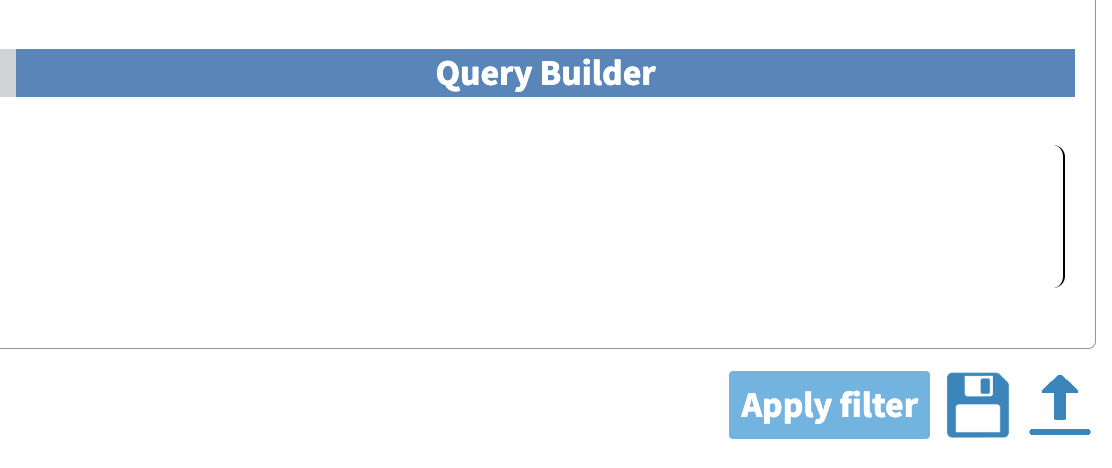
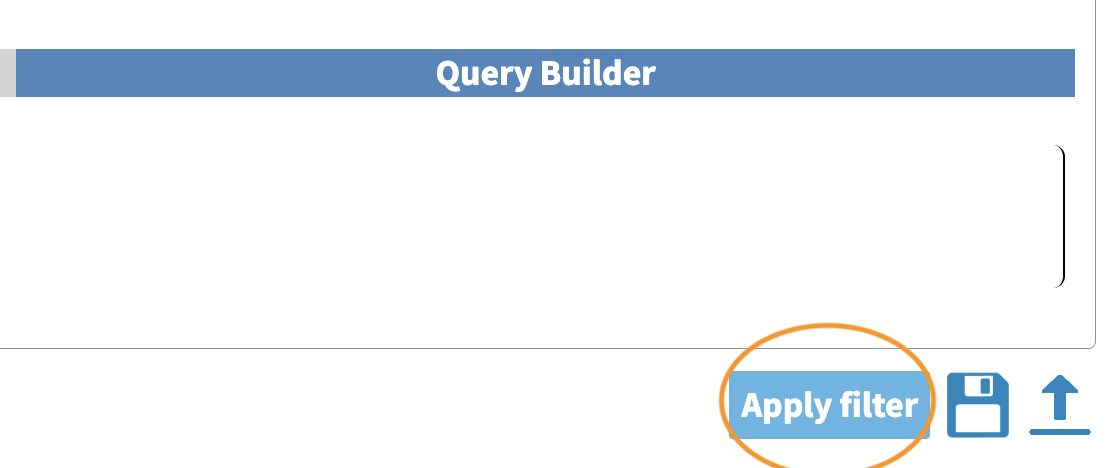
update

diff --git a/getting_started_web.html b/getting_started_web.html
@@ -20,6 +20,40 @@ ul.task-list li input[type="checkbox"] {
   margin: 0 0.8em 0.2em -1em; /* quarto-specific, see https://github.com/quarto-dev/quarto-cli/issues/4556 */ 
   vertical-align: middle;
 }
+/* CSS for syntax highlighting */
+pre > code.sourceCode { white-space: pre; position: relative; }
+pre > code.sourceCode > span { display: inline-block; line-height: 1.25; }
+pre > code.sourceCode > span:empty { height: 1.2em; }
+.sourceCode { overflow: visible; }
+code.sourceCode > span { color: inherit; text-decoration: inherit; }
+div.sourceCode { margin: 1em 0; }
+pre.sourceCode { margin: 0; }
+@media screen {
+div.sourceCode { overflow: auto; }
+}
+@media print {
+pre > code.sourceCode { white-space: pre-wrap; }
+pre > code.sourceCode > span { text-indent: -5em; padding-left: 5em; }
+}
+pre.numberSource code
+  { counter-reset: source-line 0; }
+pre.numberSource code > span
+  { position: relative; left: -4em; counter-increment: source-line; }
+pre.numberSource code > span > a:first-child::before
+  { content: counter(source-line);
+    position: relative; left: -1em; text-align: right; vertical-align: baseline;
+    border: none; display: inline-block;
+    -webkit-touch-callout: none; -webkit-user-select: none;
+    -khtml-user-select: none; -moz-user-select: none;
+    -ms-user-select: none; user-select: none;
+    padding: 0 4px; width: 4em;
+  }
+pre.numberSource { margin-left: 3em;  padding-left: 4px; }
+div.sourceCode
+  {   }
+@media screen {
+pre > code.sourceCode > span > a:first-child::before { text-decoration: underline; }
+}
 </style>
 
 
@@ -48,10 +82,17 @@ ul.task-list li input[type="checkbox"] {
     <h2 id="toc-title">Table of contents</h2>
    
   <ul>
-  <li><a href="#understanding-the-context-for-our-task" id="toc-understanding-the-context-for-our-task" class="nav-link active" data-scroll-target="#understanding-the-context-for-our-task">Understanding the Context for our Task</a></li>
-  <li><a href="#learning-objectives" id="toc-learning-objectives" class="nav-link" data-scroll-target="#learning-objectives">Learning Objectives</a></li>
-  <li><a href="#creating-an-open-cravat-account" id="toc-creating-an-open-cravat-account" class="nav-link" data-scroll-target="#creating-an-open-cravat-account">Creating an Open Cravat Account</a></li>
-  <li><a href="#browse-annotators" id="toc-browse-annotators" class="nav-link" data-scroll-target="#browse-annotators">Browse Annotators</a></li>
+  <li><a href="#learning-objectives" id="toc-learning-objectives" class="nav-link active" data-scroll-target="#learning-objectives">Learning Objectives</a></li>
+  <li><a href="#understanding-the-context-for-our-task" id="toc-understanding-the-context-for-our-task" class="nav-link" data-scroll-target="#understanding-the-context-for-our-task">Understanding the Context for our Task</a></li>
+  <li><a href="#creating-an-opencravat-account-web" id="toc-creating-an-opencravat-account-web" class="nav-link" data-scroll-target="#creating-an-opencravat-account-web">Creating an OpenCravat Account (Web)</a></li>
+  <li><a href="#installing-opencravat-via-installer-local" id="toc-installing-opencravat-via-installer-local" class="nav-link" data-scroll-target="#installing-opencravat-via-installer-local">Installing OpenCravat via Installer (Local)</a>
+  <ul class="collapse">
+  <li><a href="#windows" id="toc-windows" class="nav-link" data-scroll-target="#windows">Windows</a></li>
+  <li><a href="#macos" id="toc-macos" class="nav-link" data-scroll-target="#macos">MacOS</a></li>
+  <li><a href="#linux" id="toc-linux" class="nav-link" data-scroll-target="#linux">Linux</a></li>
+  <li><a href="#start-opencravat-gui" id="toc-start-opencravat-gui" class="nav-link" data-scroll-target="#start-opencravat-gui">Start OpenCravat GUI</a></li>
+  </ul></li>
+  <li><a href="#browse-annotators-web" id="toc-browse-annotators-web" class="nav-link" data-scroll-target="#browse-annotators-web">Browse Annotators (Web)</a></li>
   <li><a href="#convert-to-input-file-format" id="toc-convert-to-input-file-format" class="nav-link" data-scroll-target="#convert-to-input-file-format">Convert to Input File Format</a></li>
   <li><a href="#submit-annotation-job" id="toc-submit-annotation-job" class="nav-link" data-scroll-target="#submit-annotation-job">Submit Annotation Job</a></li>
   <li><a href="#filter-results" id="toc-filter-results" class="nav-link" data-scroll-target="#filter-results">Filter Results</a></li>
@@ -79,6 +120,19 @@ ul.task-list li input[type="checkbox"] {
 
 </header>
 
+<section id="learning-objectives" class="level2">
+<h2 class="anchored" data-anchor-id="learning-objectives">Learning Objectives</h2>
+<p>By the end of this tutorial, you should be able to:</p>
+<ul>
+<li><strong>Create</strong> as user account on the open cravat site</li>
+<li><strong>Install</strong> OpenCravat locally using an installer</li>
+<li><strong>Search</strong> for available annotators on the open cravat site</li>
+<li><strong>Upload</strong> and <strong>annotate</strong> variant files on the site</li>
+<li><strong>Filter</strong> annotated results for visualization</li>
+<li><strong>Visualize</strong> and <strong>Summarize</strong> Results in Open-Cravat</li>
+<li><strong>Export</strong> and <strong>Share</strong> annotation results with others</li>
+</ul>
+</section>
 <section id="understanding-the-context-for-our-task" class="level2">
 <h2 class="anchored" data-anchor-id="understanding-the-context-for-our-task">Understanding the Context for our Task</h2>
 <p>Let’s start with a research question we’re interested in. We have a list of exome variants that we’ve found in our patient population of interest. Our research question is:</p>
@@ -86,27 +140,53 @@ ul.task-list li input[type="checkbox"] {
 <p>Given this list of variants, which are potentially pathogenic?</p>
 </blockquote>
 <p>This research question will take us through understanding how the Open-Cravat annotator works.</p>
-</section>
-<section id="learning-objectives" class="level2">
-<h2 class="anchored" data-anchor-id="learning-objectives">Learning Objectives</h2>
-<ul>
-<li><strong>Create</strong> as user account on the open cravat site</li>
-<li><strong>Search</strong> for available annotators on the open cravat site</li>
-<li><strong>Upload</strong> and <strong>annotate</strong> variant files on the site</li>
-<li><strong>Filter</strong> annotated results for visualization</li>
-<li><strong>Visualize</strong> and <strong>Summarize</strong> Results in Open-Cravat</li>
-<li><strong>Export</strong> and <strong>Share</strong> annotation results with others</li>
-</ul>
-<p>You can click on each box in the diagram below to go to the relevant section.</p>
+<p>To start, you can either install OpenCravat locally, or create an account on the website. Then you’ll follow the paths below. Here’s a comparison of both approaches:</p>
+<table class="table">
+<thead>
+<tr class="header">
+<th>Feature</th>
+<th>OpenCravat Web</th>
+<th>OpenCravat Local</th>
+</tr>
+</thead>
+<tbody>
+<tr class="odd">
+<td>Create Account</td>
+<td>Yes on Web</td>
+<td>Not required</td>
+</tr>
+<tr class="even">
+<td>Install Annotators</td>
+<td>Pre-installed</td>
+<td>Install in Store</td>
+</tr>
+<tr class="odd">
+<td>Scriptable</td>
+<td>No</td>
+<td>Yes</td>
+</tr>
+<tr class="even">
+<td><strong>Protected Data</strong></td>
+<td>No</td>
+<td>Yes, with appropriate protections</td>
+</tr>
+</tbody>
+</table>
+<p>Most importantly, <strong>if you are using protected data, you should go the local installer route</strong>, with appropriate protections on your machine.</p>
+<p>You can click on each box in the diagram below to go to the relevant section. We’ll have an appropriate callout to highlight the differences where the two approaches differ.</p>
 <div class="cell">
 <div class="cell-output-display">
 <div>
 <div>
 <pre class="mermaid mermaid-js">flowchart TD
     L[Creating an Open-Cravat Account] --&gt; A
-    click L "#creating-an-open-cravat-account"
+    click L "#creating-an-open-cravat-account-web"
+    M[Installing OpenCravat via Installer] --&gt; N
+    N["Install Annotators"] --&gt; B
+    click M "#installing-open-cravat-via-installer-local"
+    click N "#install-annotators-local"
     A[Browse and select annotators] --&gt; B[Convert to Input File Format]
-    click A "#browse-annotators"
+    click A "#browse-annotators-web"
     click B "#convert-to-input-file-format"
     B --&gt;|Variant File Input| C[Submit Annotation Job]
     click C "#submit-annotation-job"
@@ -119,25 +199,65 @@ ul.task-list li input[type="checkbox"] {
 </div>
 </div>
 </section>
-<section id="creating-an-open-cravat-account" class="level2">
-<h2 class="anchored" data-anchor-id="creating-an-open-cravat-account">Creating an Open Cravat Account</h2>
-<p>Let’s start out by creating an account on <a href="https://run.opencravat.org" class="uri">https://run.opencravat.org</a>. If your organization is running Open-Cravat locally, you will need to find out the appropriate URL for the instance of Open-Cravat.</p>
-<p>Here’s the iniial screen we’ll see when we go to <a href="https://run.opencravat.org" class="uri">https://run.opencravat.org</a>. You’ll click on the “Sign Up” Button to create an account.</p>
+<section id="creating-an-opencravat-account-web" class="level2">
+<h2 class="anchored" data-anchor-id="creating-an-opencravat-account-web">Creating an OpenCravat Account (Web)</h2>
+<p>Let’s start out by creating an account on <a href="https://run.opencravat.org" class="uri">https://run.opencravat.org</a>. If your organization is running OpenCravat locally, you will need to find out the appropriate URL for the instance of Open-Cravat.</p>
+<p>Here’s the iniial screen we’ll see when we go to <a href="https://run.opencravat.org" class="uri">https://run.opencravat.org</a>. You’ll click on the <strong>Sign Up</strong> Button to create an account.</p>
 <p><img src="images/oc-first.png" class="img-fluid"> Enter your details in the form, and sign up. You’ll automatically be signed into the interface and will be ready to go for the next step.</p>
 <p><img src="images/oc-signup.png" class="img-fluid"></p>
+<p>Now you’re ready to browse the <a href="#browse-annotators-web">Open Cravat Store</a> to look for annotators.</p>
 </section>
-<section id="browse-annotators" class="level2">
-<h2 class="anchored" data-anchor-id="browse-annotators">Browse Annotators</h2>
+<section id="installing-opencravat-via-installer-local" class="level2">
+<h2 class="anchored" data-anchor-id="installing-opencravat-via-installer-local">Installing OpenCravat via Installer (Local)</h2>
+<p>You can install OpenCravat via the installers below:</p>
+<section id="windows" class="level3">
+<h3 class="anchored" data-anchor-id="windows">Windows</h3>
+<p><a href="https://karchinlab.org/opencravat/installers/OpenCRAVAT-2.4.1.exe">Windows installer</a></p>
+<p>Windows Defender may indicate that it prevented an unknown application from running. If so, click the ‘More’ link on the message and then select ‘Run Anyway’. An “OpenCRAVAT” icon will be created on the Desktop and the Start Menu.</p>
+</section>
+<section id="macos" class="level3">
+<h3 class="anchored" data-anchor-id="macos">MacOS</h3>
+<p><a href="https://karchinlab.org/opencravat/installers/OpenCRAVAT.2.2.9.pkg">Mac OS installer</a></p>
+<p>Right-click the downloaded file and select “Open”. Your Mac may ask you to confirm stating that the file was not downloaded from the App Store. Click “Open” button. Just double-clicking the installer may not enable this “Open” option.</p>
+</section>
+<section id="linux" class="level3">
+<h3 class="anchored" data-anchor-id="linux">Linux</h3>
+<p>Linux Users should refer to the Command Line Quickstart to install via <code>pip</code>/<code>pip3</code>.</p>
+</section>
+<section id="start-opencravat-gui" class="level3">
+<h3 class="anchored" data-anchor-id="start-opencravat-gui">Start OpenCravat GUI</h3>
+<p>Now that OpenCravat is installed, we can run the GUI. In a command prompt (PowerShell or Terminal), you can start the OpenCravat GUI by typing:</p>
+<div class="sourceCode" id="cb1"><pre class="sourceCode bash code-with-copy"><code class="sourceCode bash"><span id="cb1-1"><a href="#cb1-1" aria-hidden="true" tabindex="-1"></a><span class="ex">oc</span> gui</span></code><button title="Copy to Clipboard" class="code-copy-button"><i class="bi"></i></button></pre></div>
+<p>Now you can <a href="#browse-annotators">browse and install the available annotators</a></p>
+</section>
+</section>
+<section id="browse-annotators-web" class="level2">
+<h2 class="anchored" data-anchor-id="browse-annotators-web">Browse Annotators (Web)</h2>
 <p>[Video Here]</p>
-<p>If we click on the <code>STORE</code> tab in the top left of the interface, we’ll see the variety of annotators that are available to us.</p>
+<p>If we click on the <strong>STORE</strong> tab in the top left of the interface, we’ll see the variety of annotators that are available to us.</p>
 <p><img src="images/oc-browse-annotators-1.png" class="img-fluid"></p>
-<p>Let’s browse the clinically relevant annotators by clicking on the “Clinically Relevant” checkbox:</p>
+<p>Let’s browse the clinically relevant annotators by clicking on the <code>Clinically Relevant</code> checkbox:</p>
 <p><img src="images/oc-browse-annotators-2.png" class="img-fluid"></p>
 <p>As we browse the annotators available to us, we notice two specific annotators we want to work with. Let’s use two clinically relevant annotators: <a href="https://civicdb.org/welcome">CiViC</a> (Clinical Interpretations of Variants in Cancer) and <a href="https://www.ncbi.nlm.nih.gov/clinvar/">ClinVar</a>, a public archive of interpretations of clinically relevant patients.</p>
-<p>To get more information, click on the box with the CiViC:</p>
+<p>To get more information, click on the CiViC box:</p>
 <p><img src="images/oc-browse-annotators-3.png" class="img-fluid"> And you’ll see more information about the annotator:</p>
 <p><img src="images/oc-browse-annotators-4-civic.png" class="img-fluid"></p>
-<p>Now we know which annotators we want to use, so let’s annotate a file.</p>
+<div class="callout callout-style-default callout-note callout-titled">
+<div class="callout-header d-flex align-content-center">
+<div class="callout-icon-container">
+<i class="callout-icon"></i>
+</div>
+<div class="callout-title-container flex-fill">
+For Local Users
+</div>
+</div>
+<div class="callout-body-container callout-body">
+<p>If you have installed Open-Cravat locally, you will have the option to install annotators on the store page. You can do this by clicking “Install” for the annotator of interest. Please note that some of the annotators use a lot of disk space, so keep that in mind before installing locally.</p>
+<p><img src="images/oc-install-annotators.png" class="img-fluid"></p>
+<p>You already have CiViC and ClinVar installed by default, so you don’t need to install them locally.</p>
+</div>
+</div>
+<p>Now we know which annotators we want to use, let’s <a href="#convert-to-input-file-format">review input file formats</a>.</p>
 </section>
 <section id="convert-to-input-file-format" class="level2">
 <h2 class="anchored" data-anchor-id="convert-to-input-file-format">Convert to Input File Format</h2>
@@ -154,31 +274,52 @@ chr1    965667  CC  -
 chr1    973858  G   C</code></pre>
 <p>This format contains the following columns: <code>chromosome</code>, <code>position</code>, <code>reference</code>, and <code>allele</code>.</p>
 <p>Much more information about the supported file formats are here: <a href="https://open-cravat.readthedocs.io/en/latest/File-Formats.html">File Formats</a>.</p>
+<div class="callout callout-style-default callout-note callout-titled">
+<div class="callout-header d-flex align-content-center">
+<div class="callout-icon-container">
+<i class="callout-icon"></i>
+</div>
+<div class="callout-title-container flex-fill">
+For Local Users
+</div>
+</div>
+<div class="callout-body-container callout-body">
+<p>You can download the example to annotate <a href="">here</a>.</p>
+</div>
+</div>
+<p>Now we have our input file, we can move on to <a href="#submit-annotation-job">submitting our job</a>.</p>
 </section>
 <section id="submit-annotation-job" class="level2">
 <h2 class="anchored" data-anchor-id="submit-annotation-job">Submit Annotation Job</h2>
 <p>[video here]</p>
 <p>Before we move on, let’s take a look at the overall workflow for annotating in the GUI. We’ll start out by 1) submitting our input file, 2) selecting the annotators, and then 3) submitting our job.</p>
 <p><img src="images/oc-gui-workflow.png" class="img-fluid"></p>
-<p>Let’s start the workflow. We can now add our variant file to annotate and submit a job. Select the <code>JOBS</code> tab in the top left corner of the interface.</p>
+<ol type="1">
+<li>Let’s start the workflow. We can now add our variant file to annotate and submit a job. Select the <code>JOBS</code> tab in the top left corner of the interface.</li>
+</ol>
 <p><img src="images/oc-jobs.png" class="img-fluid"></p>
 <p>Our exome file corresponds to the <code>hg19/GRCH37</code> build, so make sure that this genome is selected under the Genome field</p>
 <p><img src="images/oc-jobs-genome.png" class="img-fluid"></p>
 <p>Now we’ll add our input file. Add your <code>Pedja_exome.tsv</code> file here by clicking the “ADD INPUT FILES” button:</p>
 <p><img src="images/oc-jobs-input.png" class="img-fluid"></p>
-<p>Now we can select our annotators. Under annotations in the box below “Variants”, click on the “Clinical Relevance” category.</p>
+<ol start="2" type="1">
+<li>Now we can select our annotators. Under annotations in the box below “Variants”, click on the “Clinical Relevance” category.</li>
+</ol>
 <p><img src="images/oc-jobs-category.png" class="img-fluid"></p>
 <p>Select the <code>CiViC</code> (not <code>CiViC Gene</code>) and <code>ClinVar</code> annotation checkboxes.</p>
 <p><img src="images/oc-jobs-annotators.png" class="img-fluid"></p>
-<p>Now we’re ready to annotate. Click the <code>ANNOTATE</code> button at the bottom of the webpage. Now you’ve submitted your job.</p>
+<ol start="3" type="1">
+<li>Now we’re ready to annotate. Click the <strong>ANNOTATE</strong> button at the bottom of the webpage. Now you’ve submitted your job.</li>
+</ol>
 <p><img src="images/oc-jobs-submit.png" class="img-fluid"></p>
 <p>Depending on the size of your Variant file, it may take time for your job to finish. You’ll see the job running in the table on the right of the interface.</p>
+<p>When our job is finished, we can <a href="#filter-results">view our results and filter them</a>.</p>
 </section>
 <section id="filter-results" class="level2">
 <h2 class="anchored" data-anchor-id="filter-results">Filter Results</h2>
 <p>[Video here]</p>
 <blockquote class="blockquote">
-<p>We are interested in those variants that are associated with Breast Cancer in ClinVar. How do we find those?</p>
+<p>We are interested in those variants that have ClinVar annotation. How do we find those?</p>
 </blockquote>
 <p>Now we take a look at our results in the web interface. Under the list of jobs, we can see our job. Let’s select <code>Open Result Viewer</code> under the <strong>Status</strong> tab:</p>
 <p><img src="images/oc-filter-job.png" class="img-fluid"> Keep in mind that the web interface is limited to visualizing 100,000 variants, so if you have a larger result file, you’ll need to filter the results down. So let’s take a look at how to filter our variants down.</p>
@@ -188,21 +329,50 @@ chr1    973858  G   C</code></pre>
 <p><img src="images/oc-filter-query-builder.png" class="img-fluid"></p>
 <p>We’ll add a rule (a logical condition) to our filter using the <code>+</code> button:</p>
 <p><img src="images/oc-filter-add-rule.png" class="img-fluid"></p>
-<p>Now we’ll add a rule and select those that have <code>ClinVar</code> annotations. To do this, we’ll first select <code>ClinVar</code> on the left, the <code>Clinical Significance</code> column, and <code>has data</code>:</p>
-<p><img src="images/oc-filter-create.png" class="img-fluid"> Now we can apply this rule we’ve built by clicking on the <code>Apply Filter</code> button on the bottom right of the Query Builder:</p>
+<p>Now we’ll add a rule and select those that have <code>ClinVar</code> annotations. To do this, we’ll first select a) <code>ClinVar</code> on the left, the b) <code>Clinical Significance</code> column, and c) <code>has data</code>:</p>
+<p><img src="images/oc-filter-create.png" class="img-fluid"> Now we can apply this rule we’ve built by clicking on the <strong>Apply Filter</strong> button on the bottom right of the Query Builder:</p>
 <p><img src="images/oc-filter-apply.png" class="img-fluid"> How many variants are left after the filtering?</p>
+<div class="callout callout-style-default callout-note callout-titled">
+<div class="callout-header d-flex align-content-center">
+<div class="callout-icon-container">
+<i class="callout-icon"></i>
+</div>
+<div class="callout-title-container flex-fill">
+Calculating the Effect of Filters
+</div>
+</div>
+<div class="callout-body-container callout-body">
+<p>If you have multiple filters, you can actually precalculate the numbers of variants after filtering by using the icon below.</p>
+<p><img src="images/oc-filter-precalculate.png" class="img-fluid"></p>
+<p>This can be helpful to check if your filters are too strict (that is, they won’t return anything).</p>
+<p>Just note that the filter is not actually applied to the data until you hit the <strong>Apply Filter</strong> Button.</p>
+</div>
+</div>
 </section>
 <section id="visualize-results" class="level2">
 <h2 class="anchored" data-anchor-id="visualize-results">Visualize Results</h2>
 <p>[Video here]</p>
 <p>Now that we’ve filtered, let’s go back to the Summary Tab:</p>
 <p><img src="images/oc-visualize-tab.png" class="img-fluid"> In the Visualize tab, we can see information about the annotated variants, such as from the sequence ontology. We can get the counts within a sequence ontology category by mousing over that category in our plot:</p>
-<p><img src="images/oc-visualize-seq-ontology.png" class="img-fluid"> Using the save icon, you can also save these visualizations.</p>
+<p><img src="images/oc-visualize-seq-ontology.png" class="img-fluid"> These visualizations can be moved around and pinned. Using the camera icon, you can also save these visualizations.</p>
 <p>Let’s move over to the <strong>Variant</strong> tab and look for pathogenic variants. First, we’ll click over to the <strong>Variant</strong> tab:</p>
 <p><img src="images/oc-visualize-variant.png" class="img-fluid"> Scrolling to the right, we can see there is a column for the ClinVar annotations. Notice the <strong>+</strong> on the top right. We’ll click that to expand the ClinVar annotations:</p>
 <p><img src="images/oc-visualize-clinvar.png" class="img-fluid"> In the <strong>Clinical Significance</strong> column, we can see that we can filter. Let’s select those variants that have <strong>pathogenic</strong> significance. Clicking into the search box underneath this column, we can select <strong>pathogenic</strong>:</p>
 <p><img src="images/oc-visualize-pathogenic.png" class="img-fluid"></p>
 <p>How many variants are pathogenic?</p>
+<div class="callout callout-style-default callout-note callout-titled">
+<div class="callout-header d-flex align-content-center">
+<div class="callout-icon-container">
+<i class="callout-icon"></i>
+</div>
+<div class="callout-title-container flex-fill">
+Multiple Rules
+</div>
+</div>
+<div class="callout-body-container callout-body">
+<p>Note that we could have limited our search to pathogenic variants by adding another filter rule like we did above in the filtering step. We’re showing this way in case you didn’t know the available categories within the <code>Clinical Significance</code> column.</p>
+</div>
+</div>
 </section>
 <section id="what-you-learned" class="level2">
 <h2 class="anchored" data-anchor-id="what-you-learned">What you learned</h2>
